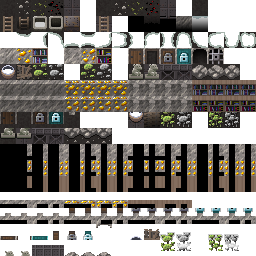
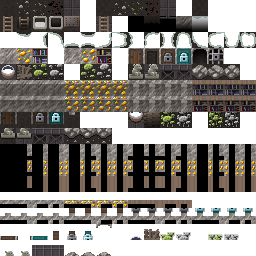
v4.0.0: added shadows where wall meets floor and expanded raised terrain
(cherry picked from commit 715613d8682b399c9d40fddaa591f9c2ff46ff9a)

Changed region(s): [[0.8125, 0.9375, 0.9375, 1.0], [0.625, 0.9375, 0.75, 1.0]]

diff --git a/core/src/main/java/com/shatteredpixel/shatteredpixeldungeon/tiles/WallOcclusionTilemap.java b/core/src/main/java/com/shatteredpixel/shatteredpixeldungeon/tiles/WallOcclusionTilemap.java
@@ -1,0 +1,166 @@
+/*
+ * Pixel Dungeon
+ * Copyright (C) 2012-2015 Oleg Dolya
+ *
+ * Shattered Pixel Dungeon
+ * Copyright (C) 2014-2026 Evan Debenham
+ *
+ * This program is free software: you can redistribute it and/or modify
+ * it under the terms of the GNU General Public License as published by
+ * the Free Software Foundation, either version 3 of the License, or
+ * (at your option) any later version.
+ *
+ * This program is distributed in the hope that it will be useful,
+ * but WITHOUT ANY WARRANTY; without even the implied warranty of
+ * MERCHANTABILITY or FITNESS FOR A PARTICULAR PURPOSE.  See the
+ * GNU General Public License for more details.
+ *
+ * You should have received a copy of the GNU General Public License
+ * along with this program.  If not, see <http://www.gnu.org/licenses/>
+ */
+
+package com.shatteredpixel.shatteredpixeldungeon.tiles;
+
+import com.shatteredpixel.shatteredpixeldungeon.Assets;
+import com.shatteredpixel.shatteredpixeldungeon.Dungeon;
+import com.shatteredpixel.shatteredpixeldungeon.levels.Terrain;
+import com.watabou.noosa.TextureFilm;
+import com.watabou.noosa.Tilemap;
+import com.watabou.utils.PathFinder;
+
+public class WallOcclusionTilemap extends Tilemap {
+
+	public static final int SIZE = 16;
+
+	//direct values
+	private static final int CLEARED        = 0;
+	private static final int EMPTY          = 0;
+	private static final int DOOR_VERT      = 6;
+	private static final int DOOR_HORIZ     = 7;
+
+	//modifiers, added together to form tile
+	private static final int WALL_ABOVE     = 40;
+	private static final int WALL_LEFT_BELOW= 1;
+	private static final int WALL_LEFT      = 2;
+	private static final int WALL_LEFT_ABOVE= 3;
+	private static final int WALL_LEFT_BOTH = 4; //both above and below
+	private static final int WALL_RIGHT_BELOW= 8;
+	private static final int WALL_RIGHT     = 16;
+	private static final int WALL_RIGHT_ABOVE= 24;
+	private static final int WALL_RIGHT_BOTH = 32; //both above and below
+
+	public WallOcclusionTilemap() {
+		super(Assets.Environment.OCCLUSION_SHADOWS, new TextureFilm( Assets.Environment.OCCLUSION_SHADOWS, SIZE, SIZE ) );
+		map( new int[Dungeon.level.length()], Dungeon.level.width());
+	}
+
+	@Override
+	public synchronized void updateMap() {
+		for (int cell = 0; cell < data.length; cell++) {
+			//force all top/bottom row, and none-discoverable cells to cleared
+			if (!Dungeon.level.discoverable[cell]
+					|| (cell - mapWidth) <= 0
+					|| (cell + mapWidth) >= size){
+				data[cell] = CLEARED;
+			} else {
+				data[cell] = getTileVisual(cell);
+			}
+		}
+
+		super.updateMap();
+	}
+
+	@Override
+	public synchronized void updateMapCell(int cell) {
+		//update in a 3x3 grid to account for neighbours which might also be affected
+		if (Dungeon.level.insideMap(cell)) {
+			for (int i : PathFinder.NEIGHBOURS9) {
+				data[cell + i] = getTileVisual(cell + i);
+			}
+			super.updateMapCell(cell - mapWidth - 1);
+			super.updateMapCell(cell + mapWidth + 1);
+
+		//unless we're at the level's edge, then just do the one tile.
+		} else {
+			data[cell] = CLEARED;
+			super.updateMapCell(cell);
+			return;
+		}
+	}
+
+	private int getTileVisual( int cell ){
+		int curr = EMPTY;
+		if (door(cell)){
+
+			if (wall(cell-1) && wall(cell+1)){
+				curr = DOOR_HORIZ;
+			} else {
+				curr = DOOR_VERT;
+			}
+
+		} else if (!wall(cell)) {
+
+			//branch for above wall
+			//we specifically skip this for alchemy pots to preserve their passthrough to water layer
+			if (wall(cell-mapWidth) && Dungeon.level.map[cell] != Terrain.ALCHEMY) {
+				curr += WALL_ABOVE;
+
+				//left
+				if (wall(cell-1)){
+					curr += WALL_LEFT;
+				} else if (wall(cell+mapWidth-1)){
+					curr += WALL_LEFT_BELOW;
+				}
+
+				//right
+				if (wall(cell+1)){
+					curr += WALL_RIGHT;
+				} else if (wall(cell+mapWidth+1)){
+					curr += WALL_RIGHT_BELOW;
+				}
+
+				//more cases for no wall above
+			} else {
+
+				//left
+				if (wall(cell - 1)) {
+					curr += WALL_LEFT;
+				} else if (wall(cell + mapWidth - 1)) {
+					if (wall(cell - mapWidth - 1)) {
+						curr += WALL_LEFT_BOTH;
+					} else {
+						curr += WALL_LEFT_BELOW;
+					}
+				} else if (wall(cell - mapWidth - 1)) {
+					curr += WALL_LEFT_ABOVE;
+				}
+
+				//right
+				if (wall(cell + 1)) {
+					curr += WALL_RIGHT;
+				} else if (wall(cell + mapWidth + 1)) {
+					if (wall(cell - mapWidth + 1)) {
+						curr += WALL_RIGHT_BOTH;
+					} else {
+						curr += WALL_RIGHT_BELOW;
+					}
+				} else if (wall(cell - mapWidth + 1)) {
+					curr += WALL_RIGHT_ABOVE;
+				}
+
+			}
+
+		} else {
+			curr = EMPTY;
+		}
+		return curr;
+	}
+
+	private boolean wall(int cell) {
+		return DungeonTileSheet.wallStitcheable(Dungeon.level.map[cell]);
+	}
+
+	private boolean door(int cell) {
+		return DungeonTileSheet.doorTile(Dungeon.level.map[cell]);
+	}
+}

diff --git a/core/src/main/java/com/shatteredpixel/shatteredpixeldungeon/scenes/GameScene.java b/core/src/main/java/com/shatteredpixel/shatteredpixeldungeon/scenes/GameScene.java
@@ -77,6 +77,7 @@ import com.shatteredpixel.shatteredpixeldungeon.tiles.GridTileMap;
 import com.shatteredpixel.shatteredpixeldungeon.tiles.RaisedTerrainTilemap;
 import com.shatteredpixel.shatteredpixeldungeon.tiles.TerrainFeaturesTilemap;
 import com.shatteredpixel.shatteredpixeldungeon.tiles.WallBlockingTilemap;
+import com.shatteredpixel.shatteredpixeldungeon.tiles.WallOcclusionTilemap;
 import com.shatteredpixel.shatteredpixeldungeon.ui.ActionIndicator;
 import com.shatteredpixel.shatteredpixeldungeon.ui.AttackIndicator;
 import com.shatteredpixel.shatteredpixeldungeon.ui.Banner;
@@ -149,6 +150,7 @@ public class GameScene extends PixelScene {
 	private SkinnedBlock water;
 	private DungeonTerrainTilemap tiles;
 	private GridTileMap visualGrid;
+	private WallOcclusionTilemap occlusion;
 	private TerrainFeaturesTilemap terrainFeatures;
 	private RaisedTerrainTilemap raisedTerrain;
 	private DungeonWallsTilemap walls;
@@ -271,6 +273,9 @@ public class GameScene extends PixelScene {
 
 		visualGrid = new GridTileMap();
 		terrain.add( visualGrid );
+
+		occlusion = new WallOcclusionTilemap();
+		terrain.add( occlusion );
 
 		terrainFeatures = new TerrainFeaturesTilemap(Dungeon.level.plants, Dungeon.level.traps);
 		terrain.add(terrainFeatures);
@@ -1309,6 +1314,7 @@ public class GameScene extends PixelScene {
 	public static void resetMap() {
 		if (scene != null) {
 			scene.tiles.map(Dungeon.level.map, Dungeon.level.width() );
+			scene.occlusion.map(Dungeon.level.map, Dungeon.level.width() );
 			scene.visualGrid.map(Dungeon.level.map, Dungeon.level.width() );
 			scene.terrainFeatures.map(Dungeon.level.map, Dungeon.level.width() );
 			scene.raisedTerrain.map(Dungeon.level.map, Dungeon.level.width() );
@@ -1321,6 +1327,7 @@ public class GameScene extends PixelScene {
 	public static void updateMap() {
 		if (scene != null) {
 			scene.tiles.updateMap();
+			scene.occlusion.updateMap();
 			scene.visualGrid.updateMap();
 			scene.terrainFeatures.updateMap();
 			scene.raisedTerrain.updateMap();
@@ -1332,6 +1339,7 @@ public class GameScene extends PixelScene {
 	public static void updateMap( int cell ) {
 		if (scene != null) {
 			scene.tiles.updateMapCell( cell );
+			scene.occlusion.updateMapCell( cell );
 			scene.visualGrid.updateMapCell( cell );
 			scene.terrainFeatures.updateMapCell( cell );
 			scene.raisedTerrain.updateMapCell( cell );

diff --git a/core/src/main/java/com/shatteredpixel/shatteredpixeldungeon/tiles/RaisedTerrainTilemap.java b/core/src/main/java/com/shatteredpixel/shatteredpixeldungeon/tiles/RaisedTerrainTilemap.java
@@ -25,13 +25,14 @@
 
 package com.shatteredpixel.shatteredpixeldungeon.tiles;
 
+import com.shatteredpixel.shatteredpixeldungeon.Assets;
 import com.shatteredpixel.shatteredpixeldungeon.Dungeon;
 import com.shatteredpixel.shatteredpixeldungeon.levels.Terrain;
 
 public class RaisedTerrainTilemap extends DungeonTilemap {
 	
 	public RaisedTerrainTilemap() {
-		super(Dungeon.level.tilesTex());
+		super(Assets.Environment.RAISED_TERRAIN);
 		map( Dungeon.level.map, Dungeon.level.width() );
 	}
 	
@@ -44,14 +45,42 @@ public class RaisedTerrainTilemap extends DungeonTilemap {
 			return -1;
 		}
 
+		int region = (Dungeon.depth-1)/5;
+		int regionOffset = region*16;
+
 		if (tile == Terrain.HIGH_GRASS){
-			return DungeonTileSheet.getVisualWithAlts(
-					DungeonTileSheet.HIGH_GRASS_UNDERHANG,
-					pos);
+			return regionOffset + (DungeonTileSheet.tileVariance[pos] >= 50 ? 2 : 0);
 		} else if (tile == Terrain.FURROWED_GRASS){
-			return DungeonTileSheet.getVisualWithAlts(
-					DungeonTileSheet.FURROWED_UNDERHANG,
-					pos);
+			return regionOffset + 1 + (DungeonTileSheet.tileVariance[pos] >= 50 ? 2 : 0);
+		} else if (tile == Terrain.BARRICADE){
+			return regionOffset + 4;
+		} else if (tile == Terrain.ALCHEMY){
+			return regionOffset + 5;
+		} else if (tile == Terrain.STATUE || tile == Terrain.STATUE_SP){
+			return regionOffset + 6;
+		} else if (tile == Terrain.REGION_DECO){
+			return regionOffset + 7;
+		} else if (tile == Terrain.REGION_DECO_ALT){
+			return regionOffset + 8;
+		}
+
+		//specific cases for mine quest
+		if (tile == Terrain.MINE_CRYSTAL){
+			if (DungeonTileSheet.tileVariance[pos] >= 95){
+				return regionOffset + 11;
+			} else if (DungeonTileSheet.tileVariance[pos] >= 50){
+				return regionOffset + 10;
+			} else {
+				return regionOffset + 9;
+			}
+		} else if (tile == Terrain.MINE_BOULDER){
+			if (DungeonTileSheet.tileVariance[pos] >= 95){
+				return regionOffset + 14;
+			} else if (DungeonTileSheet.tileVariance[pos] >= 50){
+				return regionOffset + 13;
+			} else {
+				return regionOffset + 12;
+			}
 		}
 		
 		return -1;

diff --git a/core/src/main/java/com/shatteredpixel/shatteredpixeldungeon/Assets.java b/core/src/main/java/com/shatteredpixel/shatteredpixeldungeon/Assets.java
@@ -37,9 +37,11 @@ public class Assets {
 
 	public static class Environment {
 		public static final String TERRAIN_FEATURES = "environment/terrain_features.png";
+		public static final String RAISED_TERRAIN = "environment/raised_terrain.png";
 
-		public static final String VISUAL_GRID  = "environment/visual_grid.png";
-		public static final String WALL_BLOCKING= "environment/wall_blocking.png";
+		public static final String VISUAL_GRID          = "environment/visual_grid.png";
+		public static final String WALL_BLOCKING        = "environment/wall_blocking.png";
+		public static final String OCCLUSION_SHADOWS    = "environment/occlusion_shadows.png";
 
 		public static final String TILES_SEWERS = "environment/tiles_sewers.png";
 		public static final String TILES_PRISON = "environment/tiles_prison.png";
